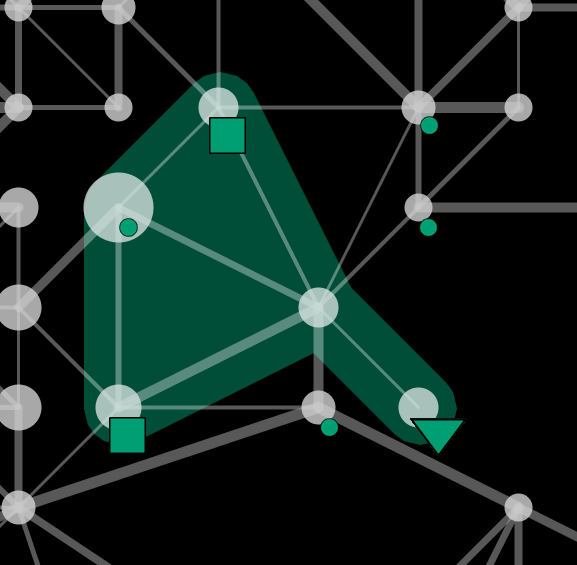
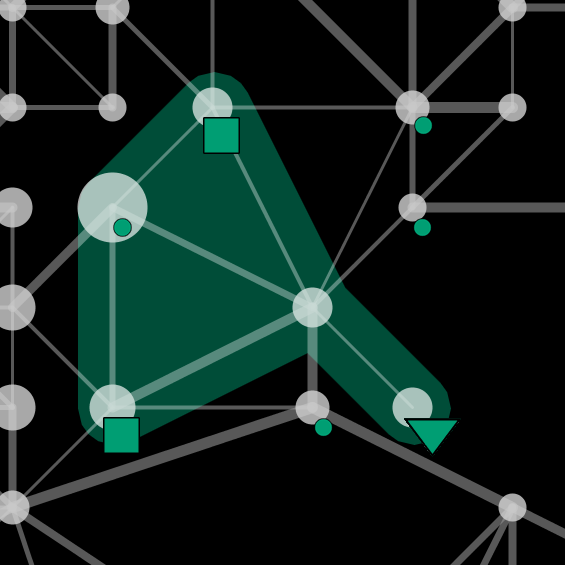
- Removed most of the todos in the zone calculation section. - Zone calculation images now all have a square aspect ratio.

diff --git a/final_report/content/algorithms/zon_calculation.tex b/final_report/content/algorithms/zon_calculation.tex
@@ -23,7 +23,7 @@ The goal is to find for every vertex in the graph a placement of agents around t
   \item All vertices that share an edge with the centre vertex will be included in the zone.
   \item Besides the centre vertex itself, agents should only be placed on the centre vertex's two-hop neighbours.
     These are those vertices whose shortest path to the centre node has a length of two.
-    Later, we will illustrate that there are rare cases in which agents must be placed on one-hop neighbours as well\todo{\textbf{@msewell}: I added this because $\exists A_v \nsubseteq v \cup V_{v}^{2}$ and the $A_v$ \emph{should} somewhat implied that no one-hop-vertices would be included.}.
+    Later, we will illustrate that there are rare cases in which agents must be placed on one-hop neighbours as well.
   \item The constructed zone's value per agent, that is, the sum of the values of each vertex in the zone divided by the number of agents required to establish that zone, should be high.
         Ideally, it would be maximal, but the heuristic we use does not guarantee this.
 \end{itemize}
@@ -31,7 +31,7 @@ The goal is to find for every vertex in the graph a placement of agents around t
 \begin{figure}
   \centering
   \subcaptionbox{This zone was calculated for a centre vertex that only has a degree of 1, i.e.\ that is a leaf vertex.
-    Generally, it is preferable to place an agent on the articulation point that leads to a leaf vertex rather than the leaf vertex itself, as this would establish at least a zone of equal size, and possibly larger\todo{\textbf{@msewell}: I replaced ``cut vertex'' with ``articulation point'' for consistency. If cut vertex would be more correct for some reason, we may undo this.}.
+    Generally, it is preferable to place an agent on the articulation point that leads to a leaf vertex rather than the leaf vertex itself, as this would establish at least a zone of equal size, and possibly larger.
                  \label{fig:zones_1}}[.49\linewidth]{\includegraphics[width=.49\linewidth]{images/zone1.png}}
   \subcaptionbox{Here, the centre vertex has a degree of 3, and the calculated zone remains compact with only two additional agents used.
                  A lot of optional agent positions remain.
@@ -41,14 +41,14 @@ The goal is to find for every vertex in the graph a placement of agents around t
                  \label{fig:zones_3}}[.49\linewidth]{\includegraphics[width=.49\linewidth]{images/zone3.png}}
   \subcaptionbox{A zone where the centre vertex has a degree of 7, and the zone uses a total of 9 agents.
                  \label{fig:zones_4}}[.49\linewidth]{\includegraphics[width=.49\linewidth]{images/zone4.png}}
-           \caption{Four examples of zones calculated by the heuristic algorithm described in \autoref{alg:zon_calculation}\todo{\textbf{@msewell}: it would be nice if all those graphics had the same image aspect ratio.}
+           \caption{Four examples of zones calculated by the heuristic algorithm described in \autoref{alg:zon_calculation}.
            The green squares and triangles represent the placement of agents, where the triangle is the agent on the centre vertex.
            Vertices marked with a small green circle are optional agent positions that can be used to expand the zone if there are agents left over at the end of the zone building, as described in \autoref{alg:zon_roles}.
            The green-coloured area represents the zone that is established by the given agent placement.}
   \label{fig:zones}
 \end{figure}
 Internally, every vertex in the graph is represented by a Java \lstinline{Vertex} object, and the calculated zone is stored as a field of that object.
-The steps of the algorithm are easiest illustrated graphically, as in \autoref{fig:coloring}\todo{should we put this into the appendix? Currently it appears around two pages later}.
+The steps of the algorithm are easiest illustrated graphically, as in \autoref{fig:coloring}.
 \begin{definition}
   Let $V$ be the set of vertices and $E$ the set of edges that the system knows about.
   For any $v \in V$, which we will use to denote the vertex that a zone is centred on, let $V_v^1 \subseteq V$ be the set of one-hop neighbours of $v$, that is, the set of vertices that share an edge with $v$: $V_v^1= \left\{w \middle|\left(v,w \right ) \in E\right\}$.
@@ -113,7 +113,7 @@ A_v := A_v \cup \left\{w\right\} &\textup{else} &
                  \label{fig:coloring3}}[.49\linewidth]{\includegraphics[width=.49\linewidth]{images/coloring3.png}}
   \subcaptionbox{After zone calculation.
                  \label{fig:coloring4}}[.49\linewidth]{\includegraphics[width=.49\linewidth]{images/coloring4.png}}
-  \caption{The zone calculation algorithm shown in four steps\todo{we might should push it into the appendix. In my most recent compilation, it appears five pages after its section.}
+  \caption{The zone calculation algorithm shown in four steps.
            Vertices are coloured differently according to their current state as the algorithm progresses.
            Green vertices are vertices that an agent must be placed on, so those in $A_v$.
            Red vertices are those where placing an agent would be redundant because it does not help with the goal of including all one-hop neighbours $V_v^1$ in the zone.
